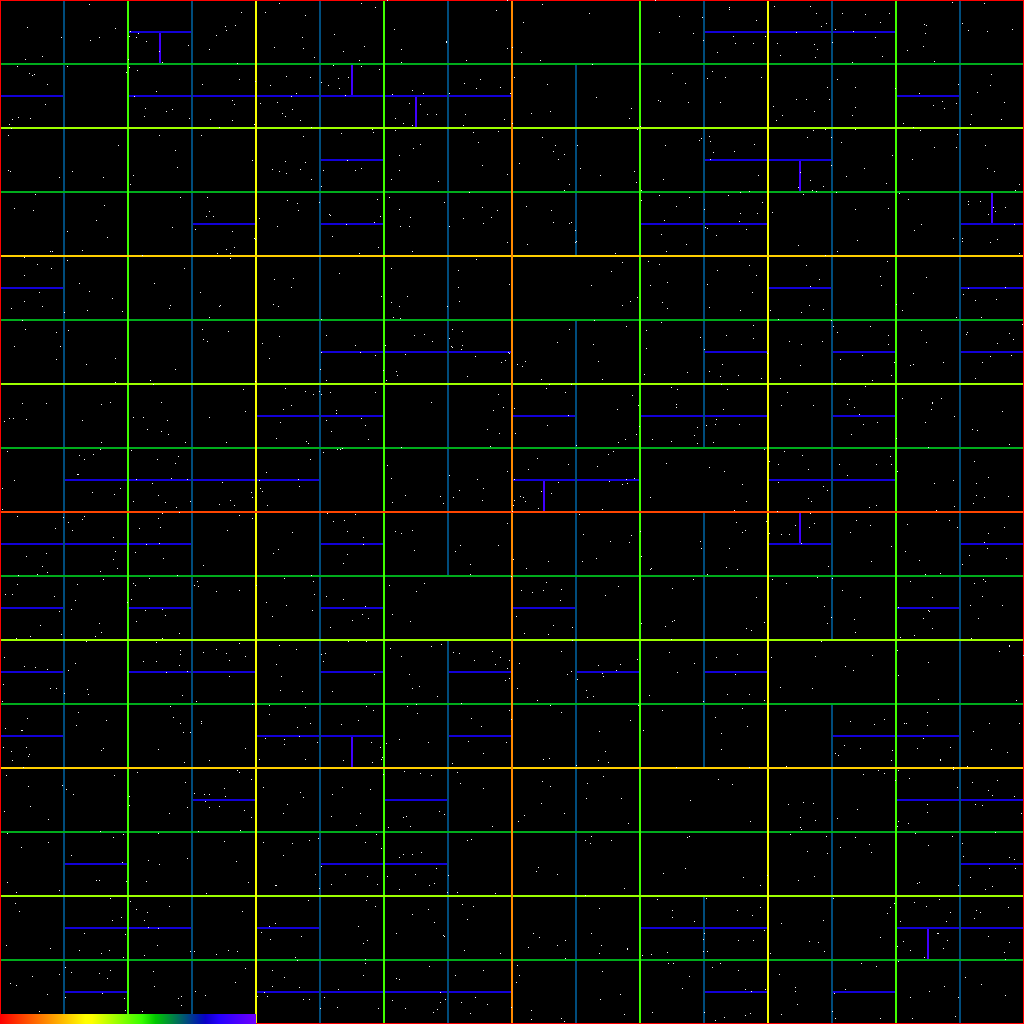
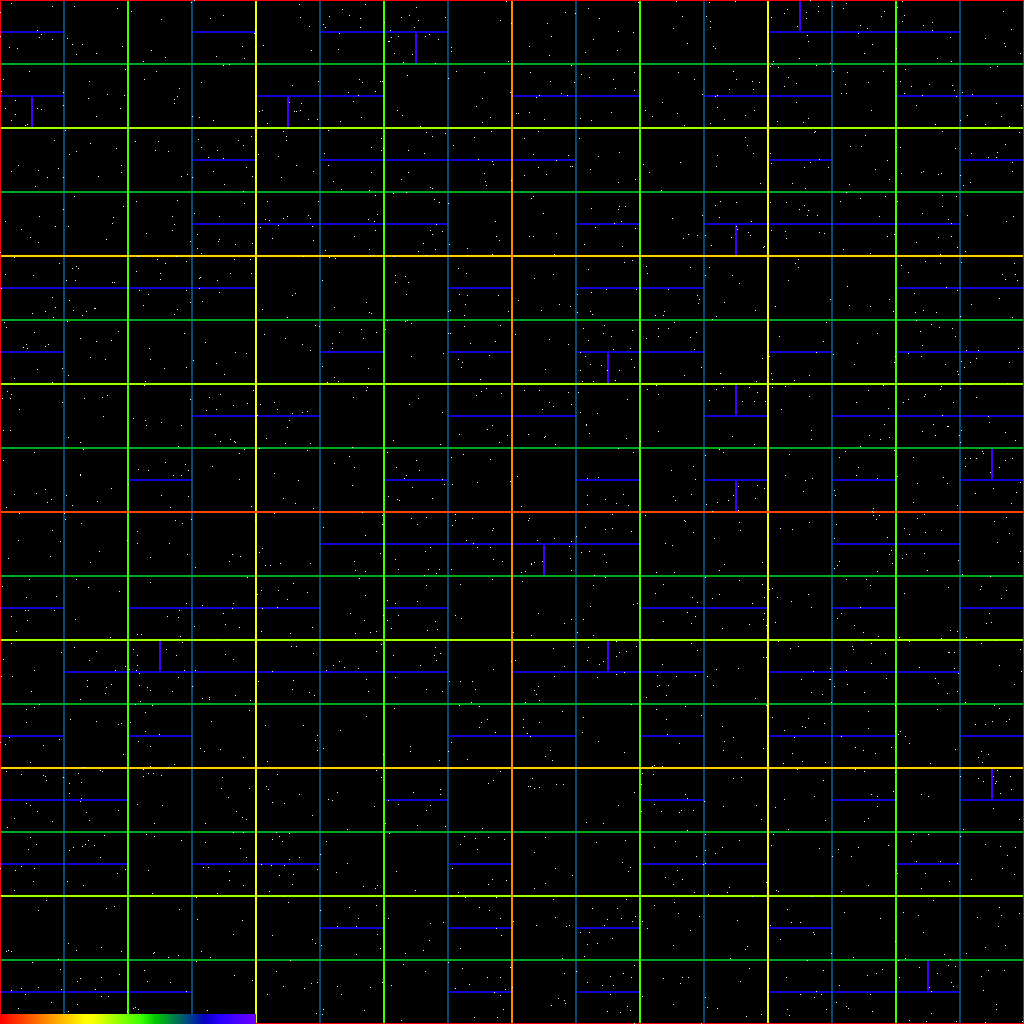
update tree.png + seeded

diff --git a/README.md b/README.md
@@ -4,7 +4,7 @@ My attempt at the assignments at ESC 202 course at UZH written in [GO](https://g
 
 ## 2d Particles Binary Partition
 
-partitions 1700 uniformely distributed particles in a 2d space and generates tree.png
+partitions 2200 uniformely distributed particles in a 2d space and generates tree.png
 
 ```console
 go run tree-partition-2d.go
